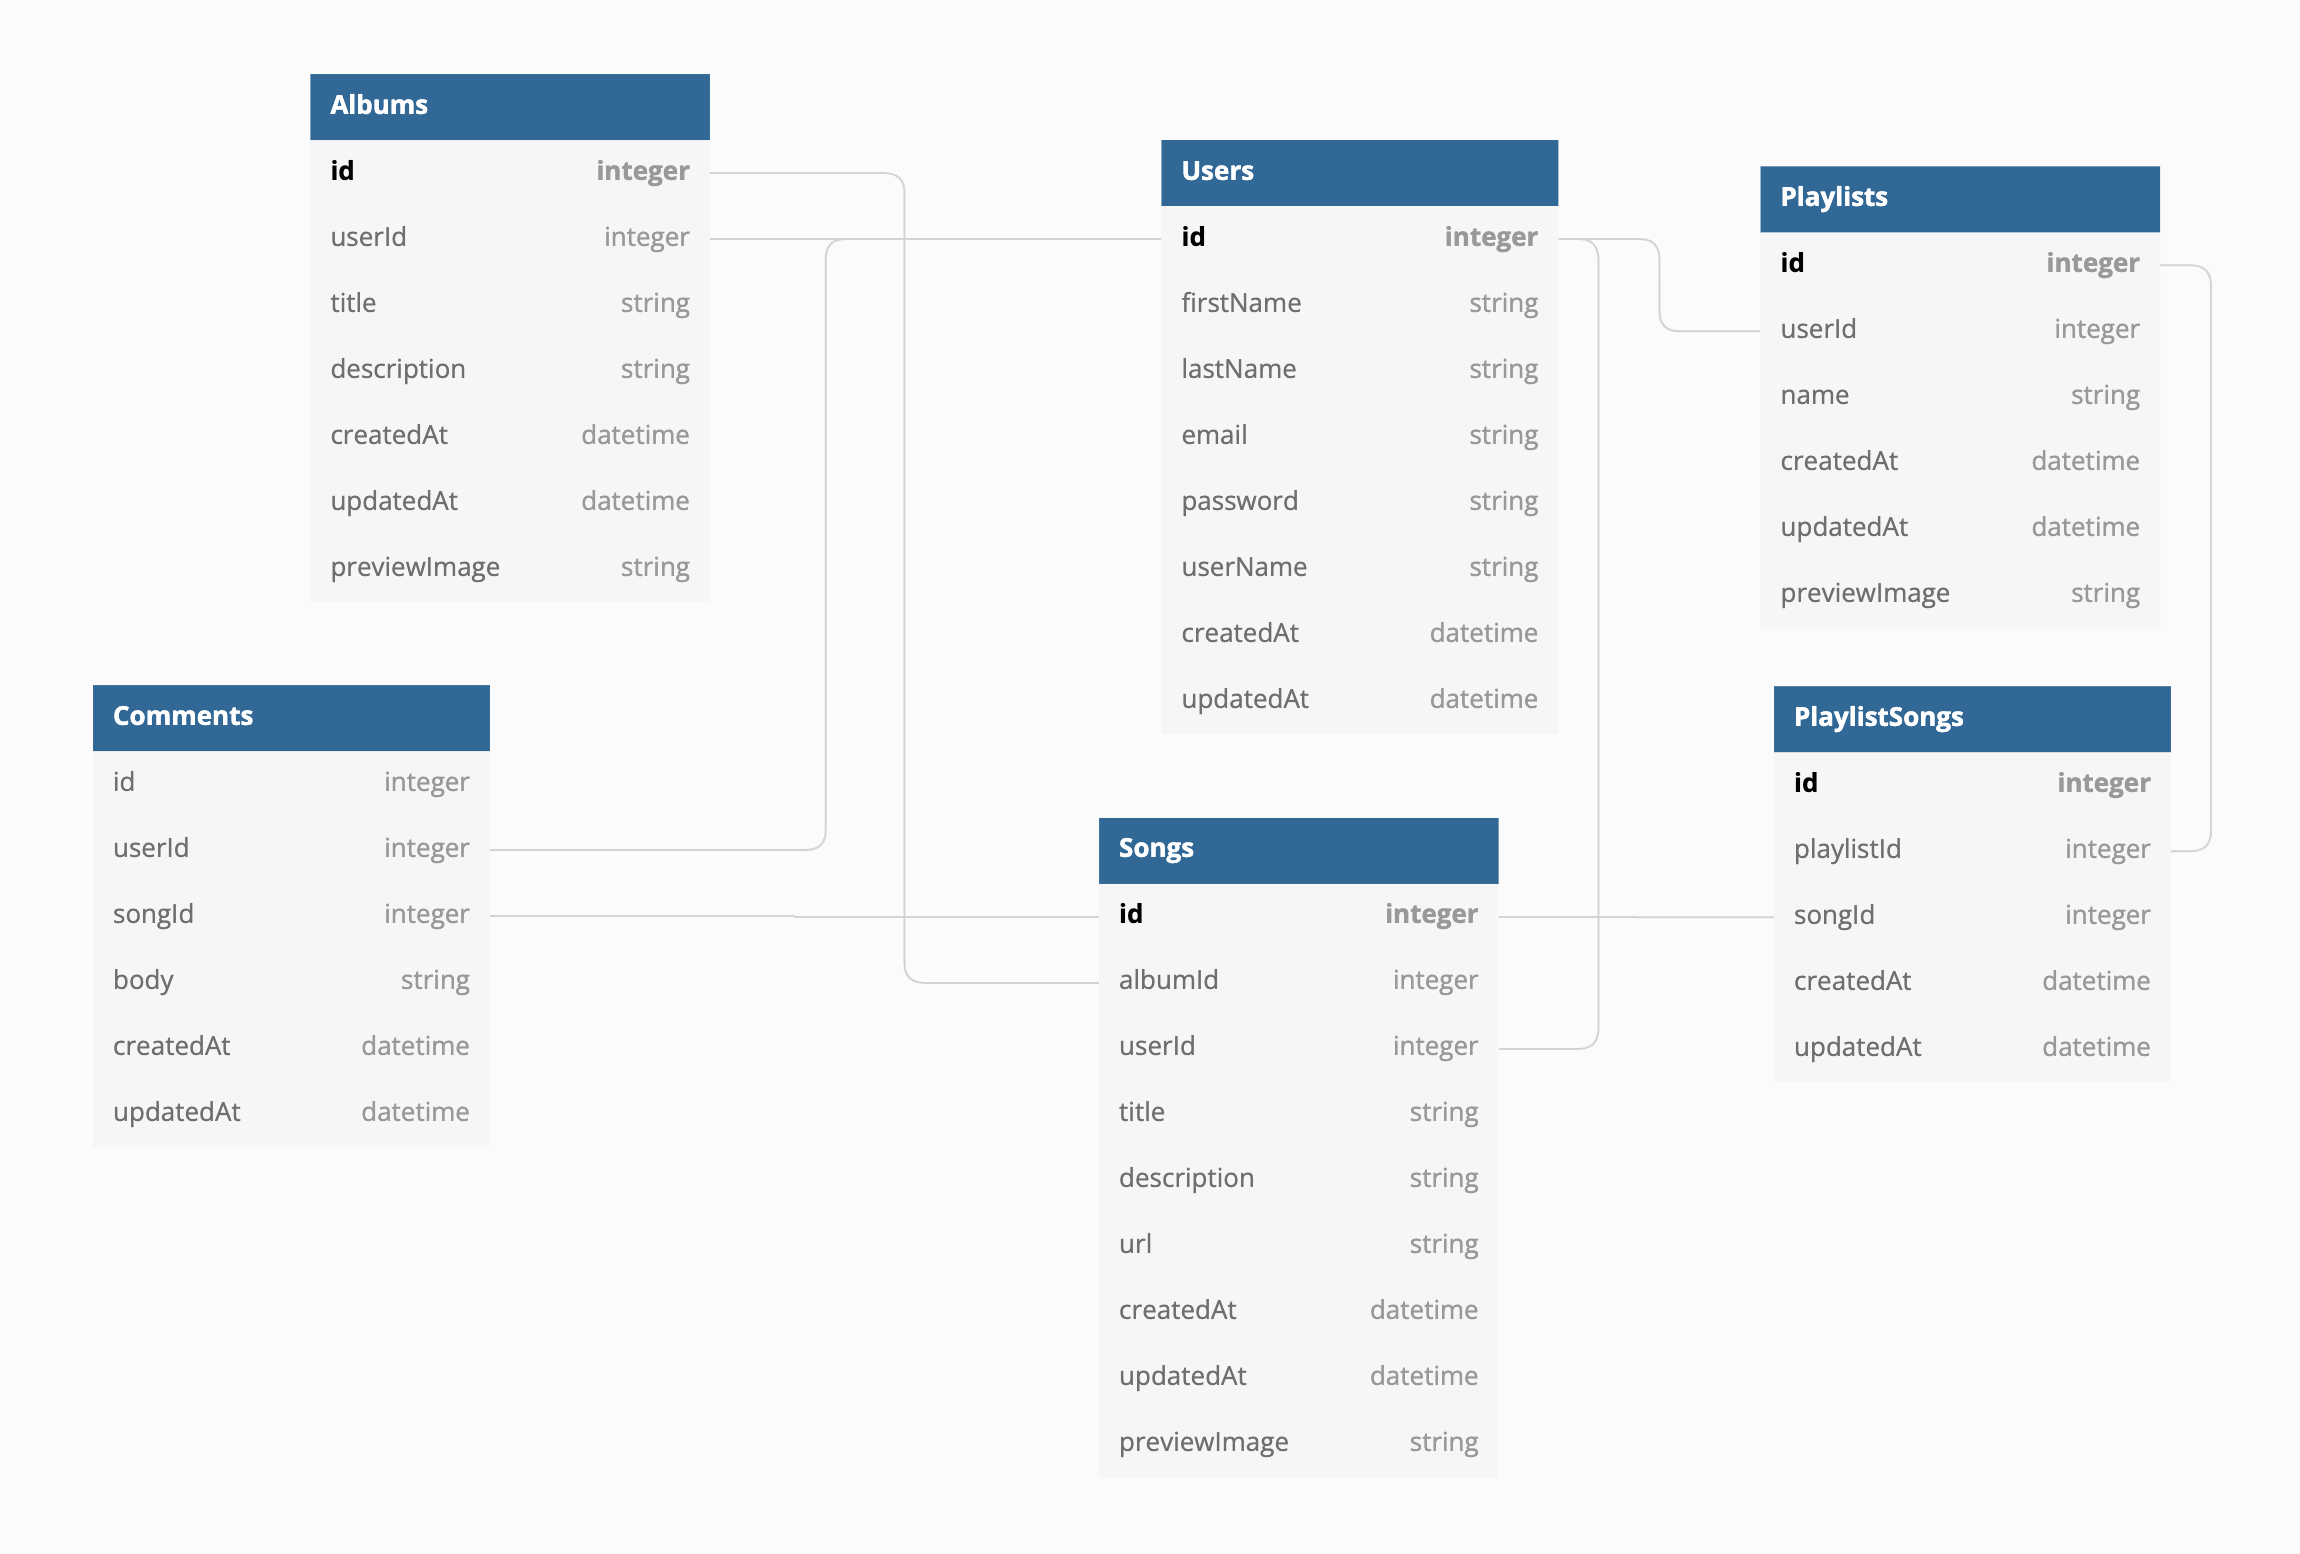
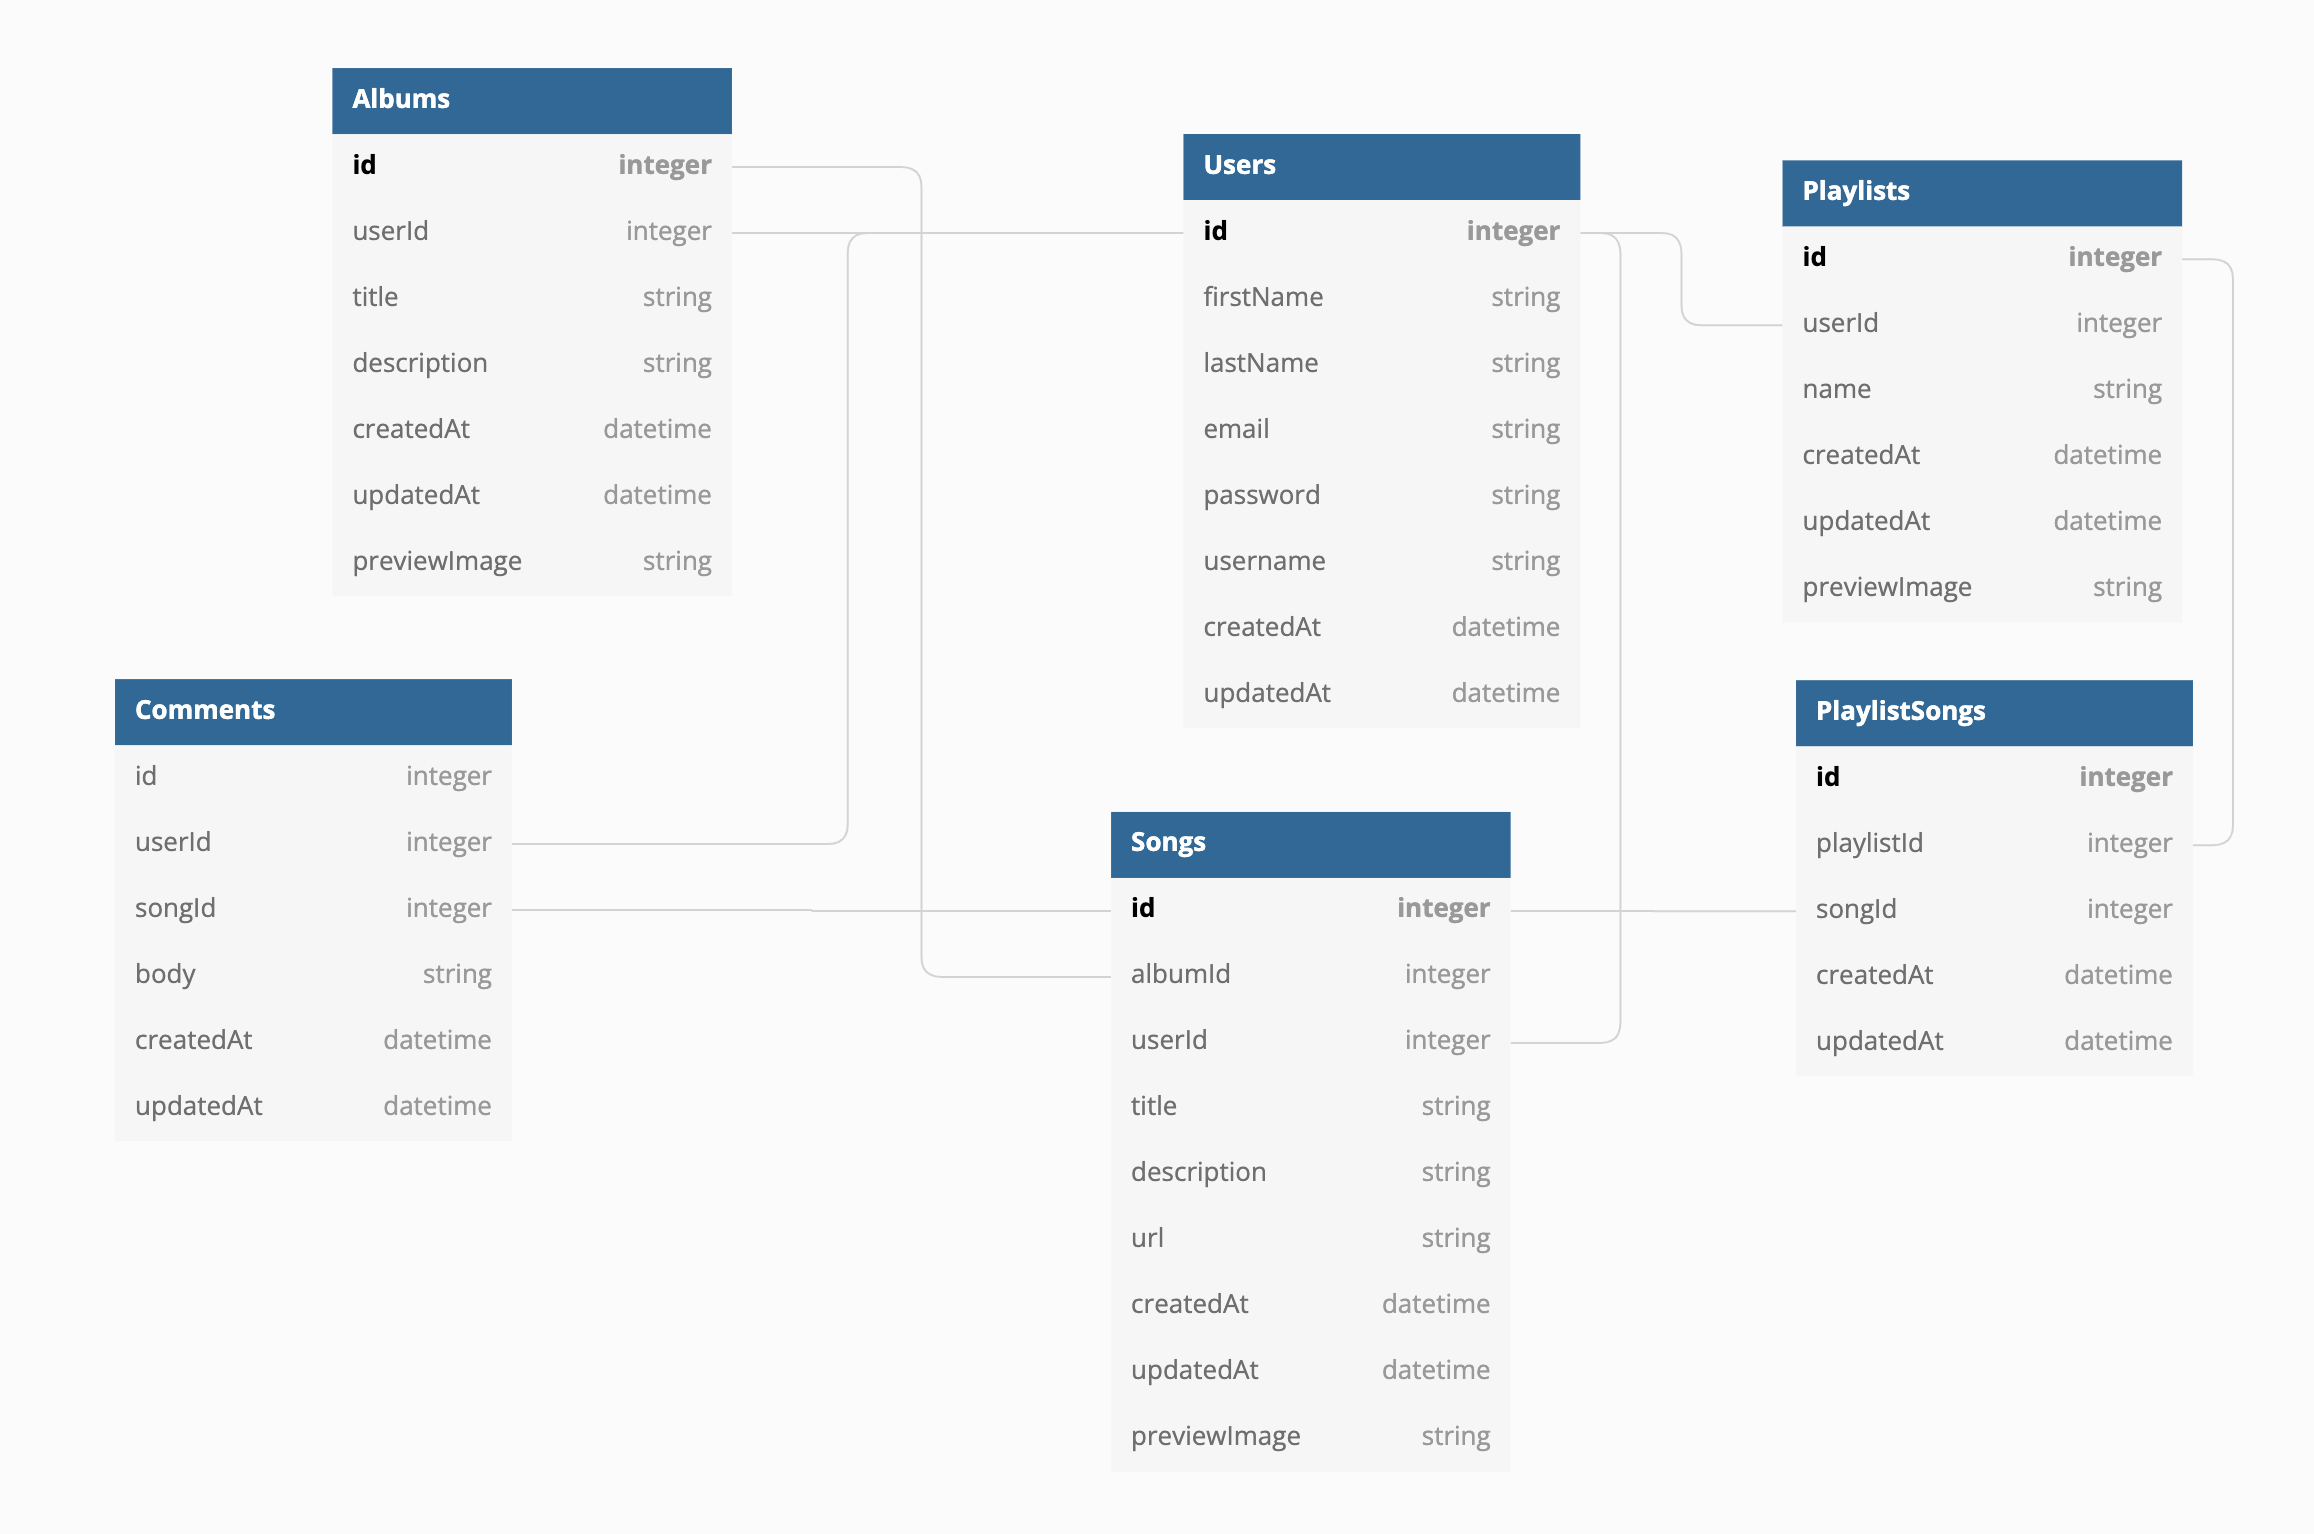
fixed userName to username in diagram

diff --git a/backend/db/models/user.js b/backend/db/models/user.js
@@ -13,8 +13,8 @@ module.exports = (sequelize, DataTypes) => {
      * The `models/index` file will call this method automatically.
      */
     toSafeObject() {
-      const { id, firstName, lastName, userName, email } = this;
-      return { id, firstName, lastName, userName, email };
+      const { id, firstName, lastName, username, email } = this;
+      return { id, firstName, lastName, username, email };
     }
 
     validatePassword(password) {
@@ -40,10 +40,12 @@ module.exports = (sequelize, DataTypes) => {
       }
     }
 
-    static async signup({ username, email, password }) {
+    static async signup({ firstName, lastName, username, email, password }) {
       const hashedPassword = bcrypt.hashSync(password);
       const user = await User.create({
         username,
+        firstName,
+        lastName,
         email,
         hashedPassword
       });

diff --git a/backend/routes/api/users.js b/backend/routes/api/users.js
@@ -42,21 +42,19 @@ const validateSignup = [
 //test route
 
 
-
-
-
 // backend/routes/api/users.js
 // ...
 
+//Sign up a user
+router.post('/signup', validateSignup, async (req, res) => {
+    const { email, firstName, lastName, password, username } = req.body;
+    const user = await User.signup({ email, firstName, lastName, username, password });
 
-router.post('/', validateSignup, async (req, res) => {
-    const { email, password, username } = req.body;
-    const user = await User.signup({ email, username, password });
-
-    await setTokenCookie(res, user);
+    const token = await setTokenCookie(res, user);
 
     return res.json({
       user,
+      token,
     });
   }
 );

diff --git a/backend/routes/index.js b/backend/routes/index.js
@@ -3,7 +3,7 @@ const router = express.Router();
 const apiRouter = require('./api');
 const myRouter = require('./my')
 
-router.use('/api', apiRouter);
+router.use(apiRouter);
 router.use('/my', myRouter)
 
 router.get("/api/csrf/restore", (req, res) => {
